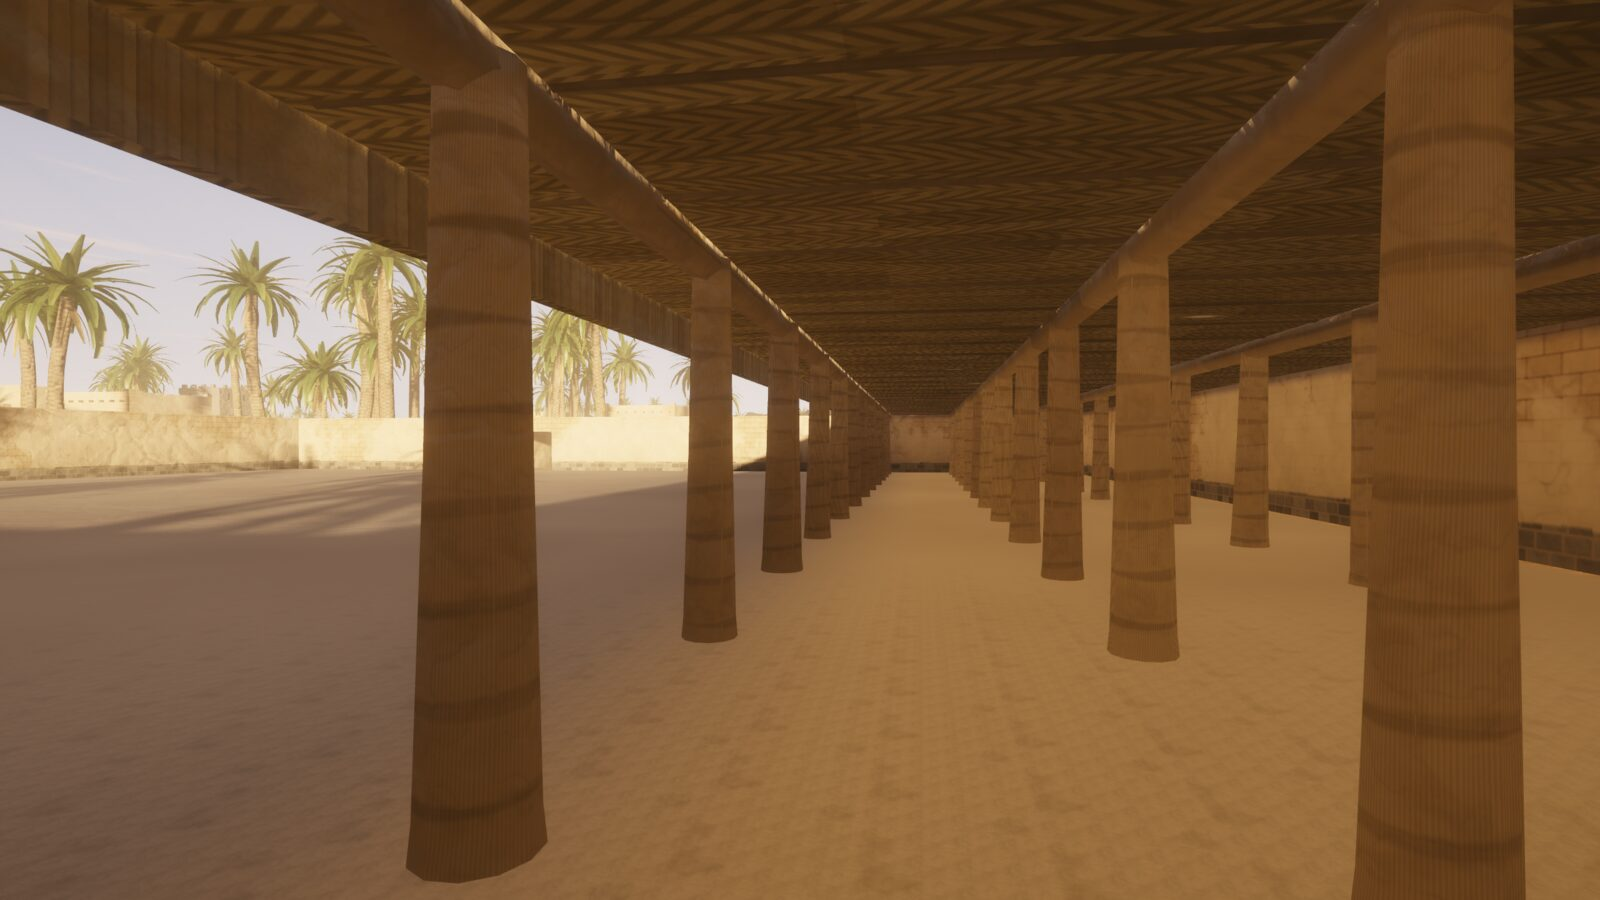
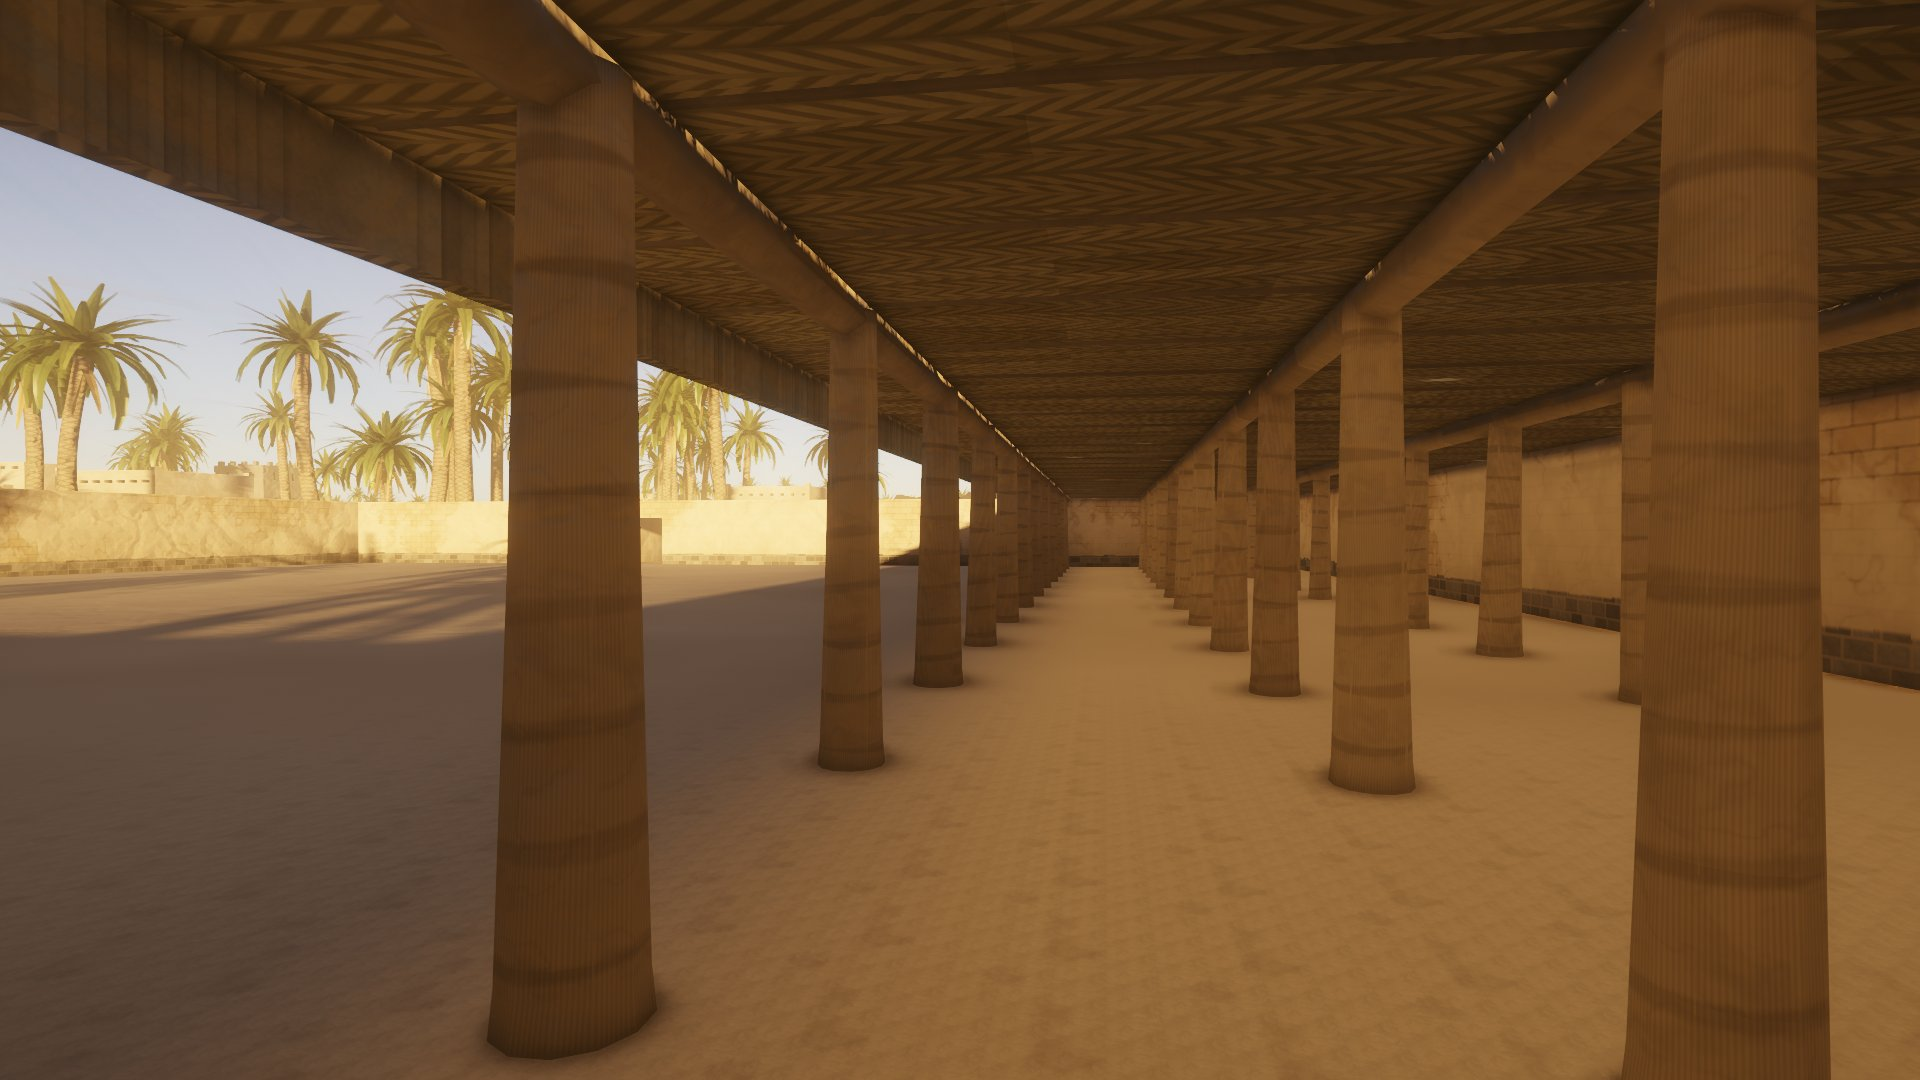
Realism stage 1: README screenshots (golden hour), NOTES gate report and state

diff --git a/NOTES.md b/NOTES.md
@@ -6,13 +6,36 @@ Built with the `worldsmith` skill (`/home/moey/.shared/skills/worldsmith`), star
 ## State (update after every step)
 
 - Phase: realism stages 1-3 (brief: /home/moey/.config/Claude/side-session-notes/local_e46bf3a1-465b-49b7-b617-a09a30fa0fa1/realism-stages-brief.md).
-  Stage 1 in progress on branch `realism-s1` (2026-11-18). Reference: Madinah Horizon stage-1 commits.
-- Baseline (live build = main a245c96), crop 0,.5,1,1 (below the horizon), 1920x1080, verify/s1-base:
-  dawn brightdetail 38.7, golden 34.6 (day mean 36.6), clip 0.00, flatwhite max 7.38 (dawn pose 1: haze toward the sun).
-  Night brightdetail is noise (a handful of bright pixels), so the gate uses the two day times; night is checked for clip only.
-- Done on the branch, not yet measured/committed: GTAO + TAA (High/Medium), Hillaire sky (LUTs drive sky, sun colour,
-  sky ambient, aerial perspective), static far-oasis shadow map (far groves and hamlets).
-- Next: measure s1-a (GTAO+TAA+sky) and s1-b (+ far shadows), then house massing, interior windows, area tint.
+- **Stage 1: shipped 2026-11-18** (branch `realism-s1`, fast-forwarded to main). Stage 2 next on `realism-s2`; its
+  work in progress is in `git stash` "s2-wip" (palms ported from Horizon ac0180e, colonnade of 3 x 8 trunks from
+  sources, bounded GI ported from Horizon 8246d13): pop it onto `realism-s2`, build, capture, measure.
+
+### Stage 1 gate report (crop 0,.5,1,1 below the horizon, 1920x1080, all six poses at each Time)
+
+| Gate | Live build (verify/s1-base) | Stage 1 (verify/s1-i) | Result |
+|---|---|---|---|
+| brightdetail, day mean (dawn, golden) | 36.6 (38.7, 34.6) | 42.4 (48.7, 36.2) | +15.9%, pass (>= +15%) |
+| clip% max | 0.01 | 0.07 | pass (< 0.5) |
+| flatwhite% max | 7.38 (dawn pose 1) | 0.69 | pass (< 2) |
+| GPU, 60 s flight 2560x1440 High (verify/s1-gate/perf) | 6.17 avg (Nov 16) | 7.95 avg, p99 12.68, max 14.40 | pass (<= 11 / <= 16) |
+| console errors, index.html, 3 Times x High/Medium/Low | 0 | 0 (verify/s1-gate, re-run on the final build in verify/s1-final-idx) | pass |
+| menu preview phone/tablet/desktop | renders | renders, 0 errors (verify/s1-gate/menu) | pass |
+| index.html size | 99.8 KB | 122.6 KB (122,640 bytes) | pass (< 160 KB) |
+| critic (one round, sonnet, images only) | major | **major** | fail, shipped under the brief's rule |
+
+Night brightdetail is noise (a handful of bright pixels decide it), so the gate uses dawn and golden hour; night was
+checked for clipping (0.00%) and by eye.
+
+Critic majors and where they went: house beam ends floating in a dotted row (a real bug: the roof room's beam row spanned
+the whole house; fixed), night ground reading as daylit sand (fixed: moonlit Purkinje grade, lifted moon fill). Not
+stage 1, carried to stage 2: hall roof thatch tiling and identical columns, flat hall interior, brown lava (should be
+black basalt), the water channel. Stage 3: far terrain speckle and Uhud detail (real DEM). The two fixes were measured
+(numbers above) but not re-reviewed by a second critic round, to stay inside the usage window.
+
+What moved the numbers (day brightdetail): GTAO+TAA+Hillaire sky 36.6 -> 39.5; houses, openings and tint 40.1; post-TAA
+sharpen 1.25 41.4, 1.8 42.4; raising exposure lowered it (dawn .95->1.02, golden .74->.84 gave 38.4, reverted); the
+far-oasis shadow map left the pose metrics unchanged (its area is beyond the poses) but darkens grove floors seen from
+the air, as a 9 degree sun should (a 12 m palm throws a ~75 m shadow).
 
 ## Before realism (2026-11-16 delivery)
 
@@ -38,7 +61,7 @@ Built with the `worldsmith` skill (`/home/moey/.shared/skills/worldsmith`), star
 | Minarets, domes, minbar decoration | none in this period | none | known |
 | Rooms of the Prophet's ﷺ household | adjoined the mosque, mostly on the east side; mud brick and palm stalks; low ceilings | a row of plain closed low rooms outside the east wall, no doors or openings shown | location approximate; form a guess; interiors deliberately not shown |
 | Utum (atam) | stone and mud fortified tower-houses, square in plan, multi-storey, one per clan | square tapering towers of coursed stone, about 12 m, small slits, a parapet | form a guess |
-| Houses | mud brick, flat roofs of palm trunks and fronds | single-storey flat-roofed houses, some with a roof room or a yard, beam ends showing | guess within the known materials |
+| Houses | mud brick, flat roofs of palm trunks and fronds | single-storey flat-roofed houses, some with a roof room (outside mud stair) or a yard (frond shelter), two-storey ones, palm-wood beam ends, lintels and posts, frond shades (arish) on palm posts with a mud bench; doors and small high windows open onto dim rooms, some lit by an oil lamp at night; render clay and age vary by neighbourhood | guess within the known materials (realism stage 1) |
 | Harrat | Madinah lies between lava fields: Harrat Waqim east, Harrat al-Wabara west, Harrat Rahat south | black basalt east (near) and south and west (far) | known |
 | Uhud | about 4-5 km north, a long red granite massif | far ridge 4.3 km north, about 380 m relief | known, distance compressed |
 | Jabal Sal' | a hill just north-west of the mosque | low dark hill 1 km north-west | position composed |
